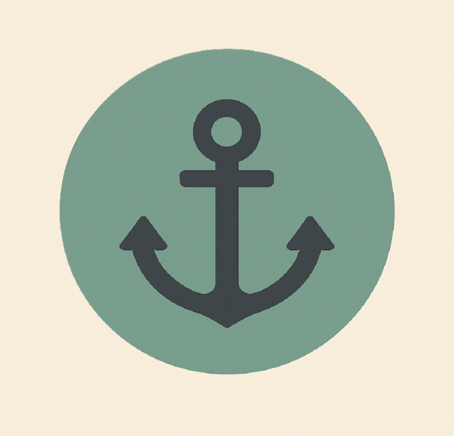
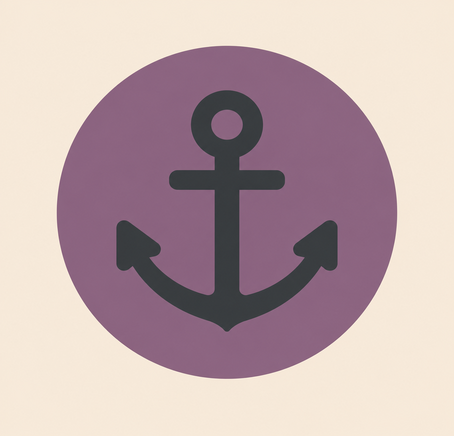
alteracoes_finais_modulo 4

diff --git a/src/components/atividades/modulo4/desafioSemanal.js b/src/components/atividades/modulo4/desafioSemanal.js
@@ -138,11 +138,11 @@ const DesafioSemanal = ({ id }) => {
             <tr>
               {[
                 "Dilema",
-                "Prós de não mudar",
-                "Contras de não mudar",
-                "Prós de mudar",
-                "Contras de mudar",
-                "Estratégias anteriores",
+                "Prós de Não Mudar",
+                "Contras de Não Mudar",
+                "Prós de Mudar",
+                "Contras de Mudar",
+                "Estratégias Anteriores",
               ].map((title) => (
                 <th
                   key={title}
@@ -167,27 +167,27 @@ const DesafioSemanal = ({ id }) => {
                   },
                   {
                     name: "prosnaomudar",
-                    label: "Prós de não mudar",
+                    label: "Prós de Não Mudar",
                     placeholder: "Escreve aqui os prós de não mudar",
                   },
                   {
                     name: "contrasnaomudar",
-                    label: "Contras de não mudar",
+                    label: "Contras de Não Mudar",
                     placeholder: "Escreve aqui os contras de não mudar",
                   },
                   {
                     name: "prosMudar",
-                    label: "Prós de mudar",
+                    label: "Prós de Mudar",
                     placeholder: "Escreve aqui os prós de mudar",
                   },
                   {
                     name: "contrasMudar",
-                    label: "Contras de mudar",
+                    label: "Contras de Mudar",
                     placeholder: "Escreve aqui os contras de mudar",
                   },
                   {
                     name: "estrategiasanteriores",
-                    label: "Estratégias anteriores",
+                    label: "Estratégias Anteriores",
                     placeholder: "Escreve aqui estratégias anteriores",
                   },
                 ].map(({ name, label, placeholder }) => (
@@ -261,19 +261,19 @@ const DesafioSemanal = ({ id }) => {
       {/* REGISTOS */}
       {registos.length > 0 && (
         <>
-          <h5 className="mt-5">Registos anteriores:</h5>
+          <h5 className="mt-5">Registos Anteriores:</h5>
 
           <div className="table-responsive">
             <table className="table table-bordered text-center align-middle">
               <thead>
                 <tr>
-                  <th>Data</th>
+                  <th>Data do Registo</th>
                   <th>Dilema</th>
-                  <th>Prós não mudar</th>
-                  <th>Contras não mudar</th>
-                  <th>Prós mudar</th>
-                  <th>Contras mudar</th>
-                  <th>Estratégias anteriores</th>
+                  <th>Prós de Não Mudar</th>
+                  <th>Contras de Não Mudar</th>
+                  <th>Prós de Mudar</th>
+                  <th>Contras de Mudar</th>
+                  <th>Estratégias Anteriores</th>
                 </tr>
               </thead>
 
